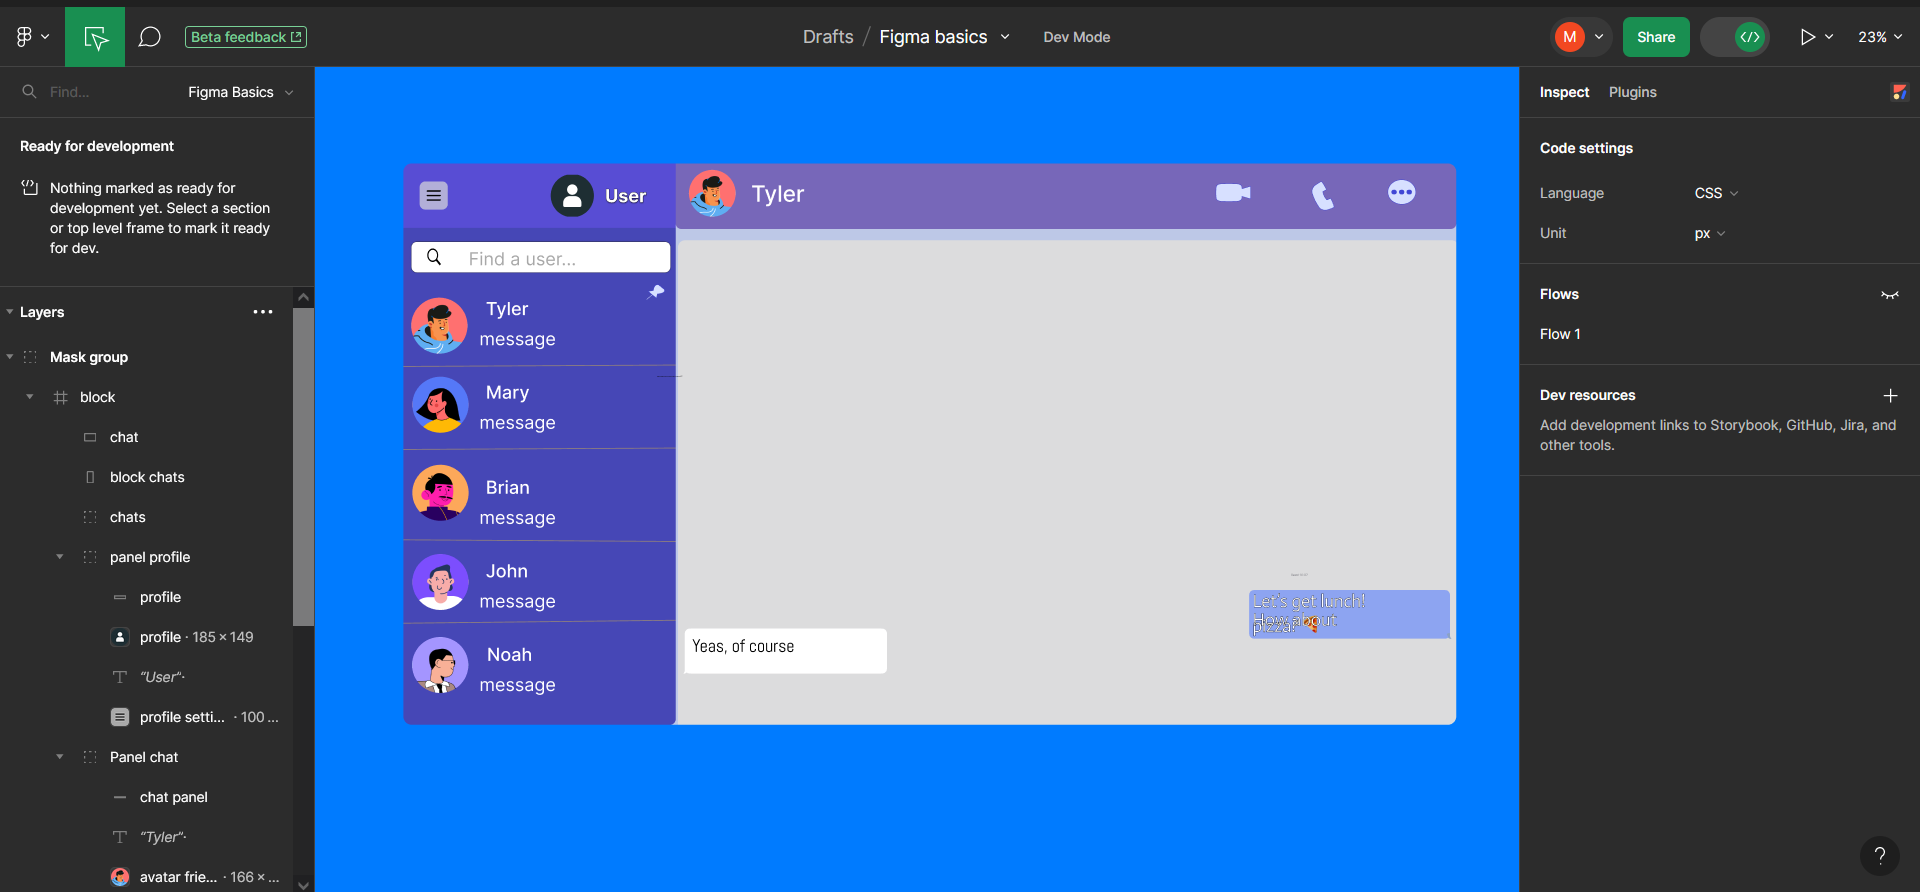
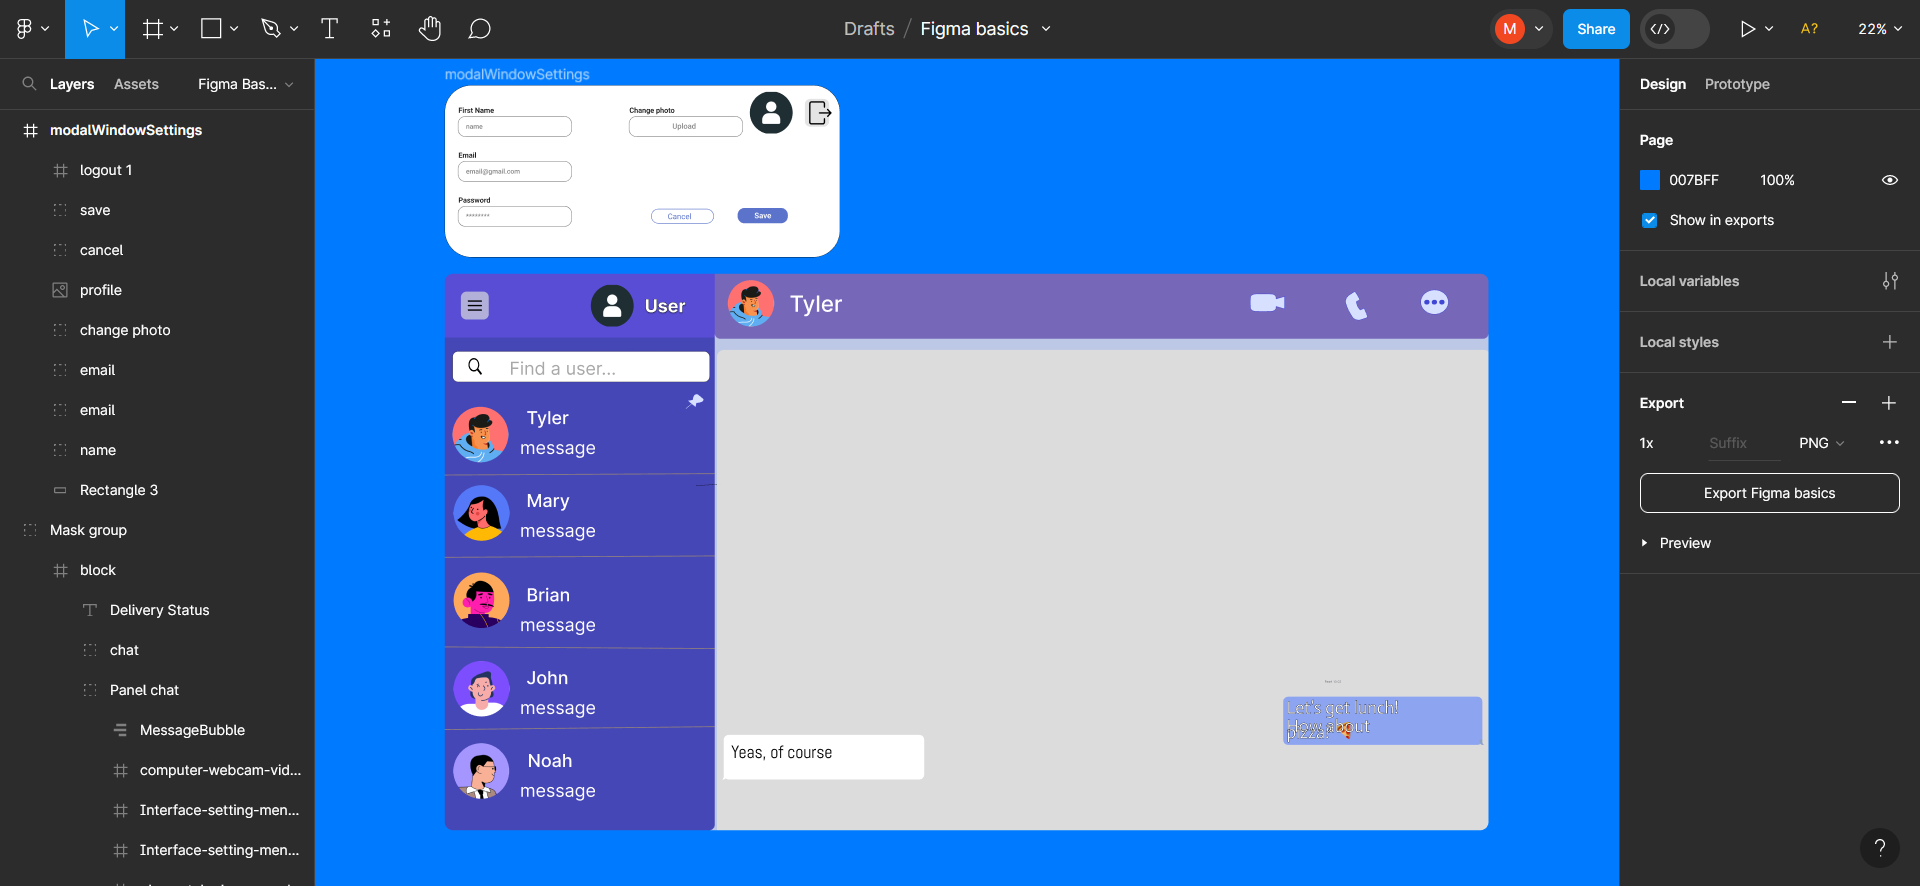
Update Settings: added button for logout | Update sign in: added alert if password or login incorrect

diff --git a/src/pages/components/SettingsWIndow.js b/src/pages/components/SettingsWIndow.js
@@ -1,12 +1,13 @@
 import React, { useState } from "react";
 
 // firebase 
-import { updateProfile, updatePassword, reauthenticateWithCredential, EmailAuthProvider } from "firebase/auth";
+import { updateProfile, updatePassword, reauthenticateWithCredential, EmailAuthProvider, signOut } from "firebase/auth";
 import { ref, uploadBytes } from "firebase/storage";
-import { storage } from "../../firebase";
+import { storage, auth } from "../../firebase";
 
 // files
 import default_avatar from "../../assets/defaultAvatar_profile.png";
+import logout from "../../assets/icons/logout.svg";
 
 
 const Settings = ({ user, setModalWindow }) => {
@@ -148,6 +149,19 @@ const Settings = ({ user, setModalWindow }) => {
                 });
         }
     }   
+    
+    // button logout
+    const handleLogout = () => {
+        signOut(auth) 
+            .then(() => {
+                window.location.reload();
+            })
+            .catch((error) => {
+                setState_DataUser({ ...state_DataUser, alert: 'Fail! could not log out' })
+                console.error(error);
+            });
+    }
+
 
     return (
         <div className="modal-overlay">
@@ -222,6 +236,19 @@ const Settings = ({ user, setModalWindow }) => {
                 </div>
 
                 {state_DataUser.alert && <h2 className="text-handler-photo">{state_DataUser.alert}</h2>}
+
+                <button
+                    className="button_profile_logout" 
+                    aria-label="Button for Profile logout"
+                    onClick={handleLogout}
+                >
+
+                    <img 
+                        src={logout} 
+                        className="button_profile_logout_icon"
+                        alt="button_profile_logout"
+                    />
+                </button>
 
                 <button className="button-cancel" onClick={cancel_CloseModal}>Cancel</button>
                 <button className="button-save" onClick={apply}>Apply</button>

diff --git a/src/pages/styles/profile.scss b/src/pages/styles/profile.scss
@@ -177,7 +177,37 @@
                 border-radius: 50%; 
                 object-fit: cover; 
                 border: 2px solid #fff; 
-            }              
+            }           
+            
+            .button_profile_logout {
+                display: flex;
+                align-items: center;
+                justify-content: center;
+                width: 80px; 
+                height: 80px;
+                cursor: pointer;
+                background: none; 
+                border: none;
+                padding: 0; 
+                position: absolute;
+                border-radius: 0;
+                margin-top: -110px;
+                margin-left: 1130px; 
+        
+                .button_profile_logout_icon {
+                    width: 100%;
+                    height: auto;
+                    max-width: 100%;
+                    display: block;
+                    background-color: #d9d9d94e;
+                    border-radius: 30px 30px 30px 30px;
+                }        
+                
+                &:hover {
+                    background-color: #d9d9d9e6;
+                    border-radius: 30px 30px 30px 30px;
+                }
+            }
 
             .button-cancel {
                 width: 223px;

diff --git a/src/pages/auth/sign_in.js b/src/pages/auth/sign_in.js
@@ -11,7 +11,7 @@ const SignIn = () => {
     // data user
     const [email, setEmail] = useState();
     const [password, setPassword] = useState();
-
+    const [alert, setAlert] = useState();
 
     // useNavigate hook
     const navigate = useNavigate();
@@ -29,7 +29,10 @@ const SignIn = () => {
             const errorCode = error.code;
             const errorMessage = error.message;
 
-            console.log(errorCode, errorMessage);
+            console.error(errorCode);
+            console.error(errorMessage);
+            
+            setAlert('Fail! Login or Password incorrect');
           });
     }
 
@@ -85,6 +88,8 @@ const SignIn = () => {
                                 value={password}
                                 onChange={(e) => setPassword(e.target.value)}
                             />
+
+                            <h2>{alert}</h2>
 
                             <input type="submit" id="submit" value="Submit" onClick={submit}/>
                         </form>

diff --git a/src/pages/styles/auth.css b/src/pages/styles/auth.css
@@ -107,7 +107,7 @@ input::-moz-focus-inner {
 
 #submit {
   color: #707075;
-  margin-top: 30px;
+  margin-top: -10px;
   transition: color 300ms, box-shadow 300ms;
   display: inline-block;
   padding: 2px 15px; 
